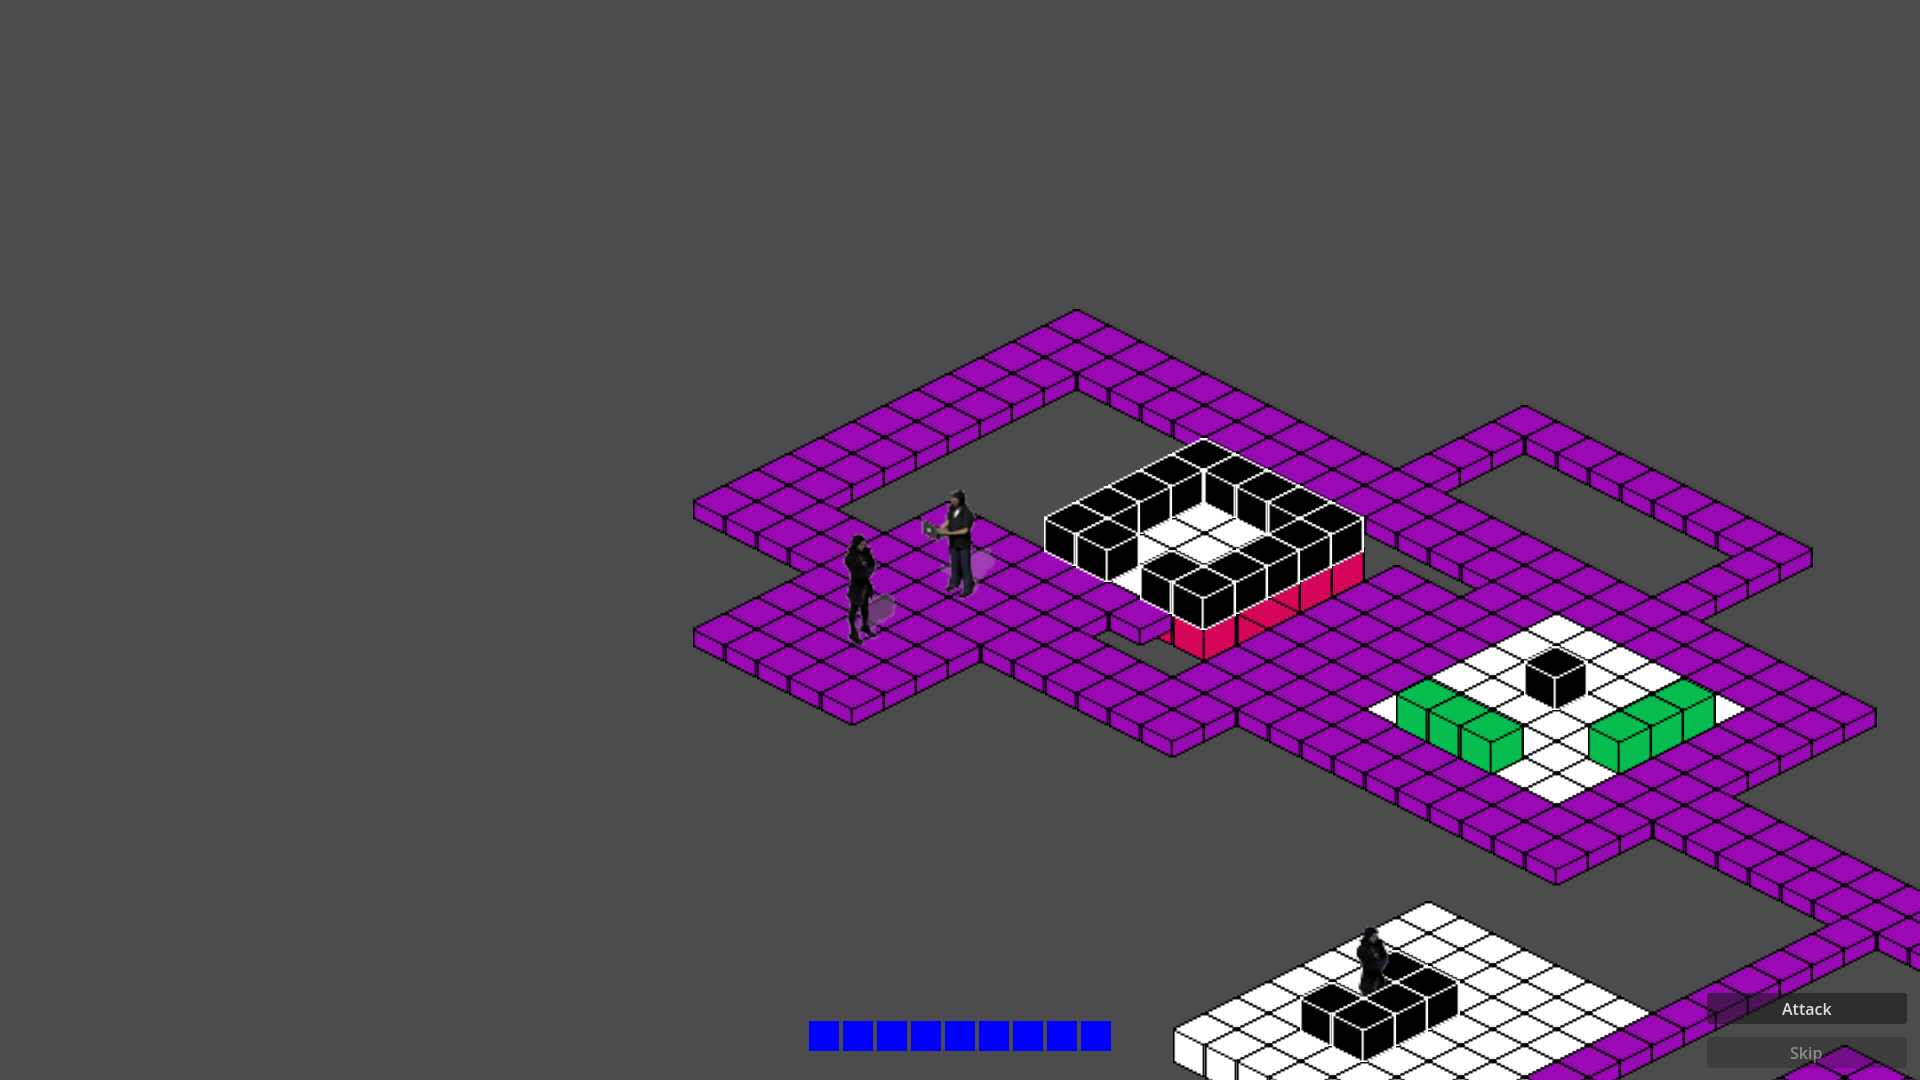
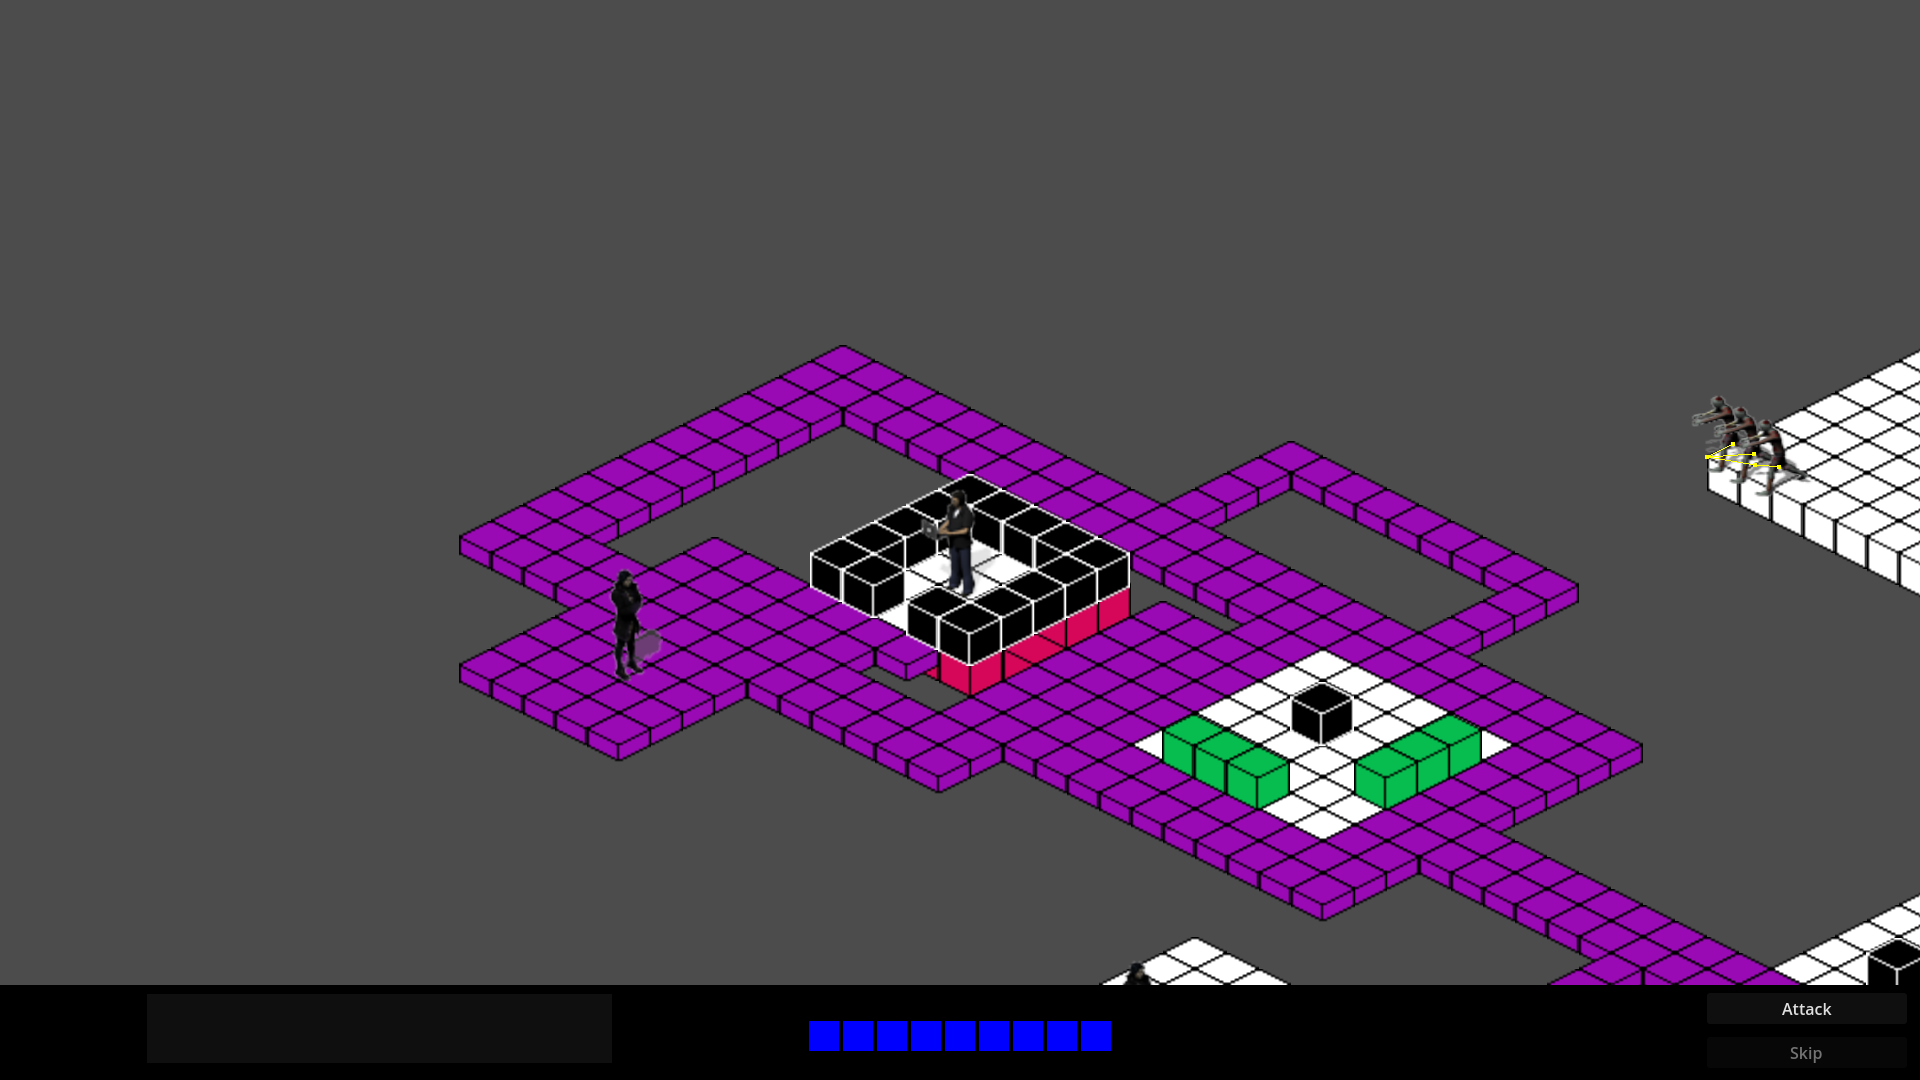
Updated README

diff --git a/README.md b/README.md
@@ -30,6 +30,11 @@ ProtoCRPG has the following features:
     <img src="./src/npcPreview.gif"/>
 </p> 
 
+- Log to read/write the results of individual actions:
+<p align = "center">
+    <img src="./src/logPreview.gif"/>
+</p> 
+
 - Attack of enemies, with different distances [To finish]:
 <p align = "center">
     <img src="./src/enemyMovement.gif"/>
